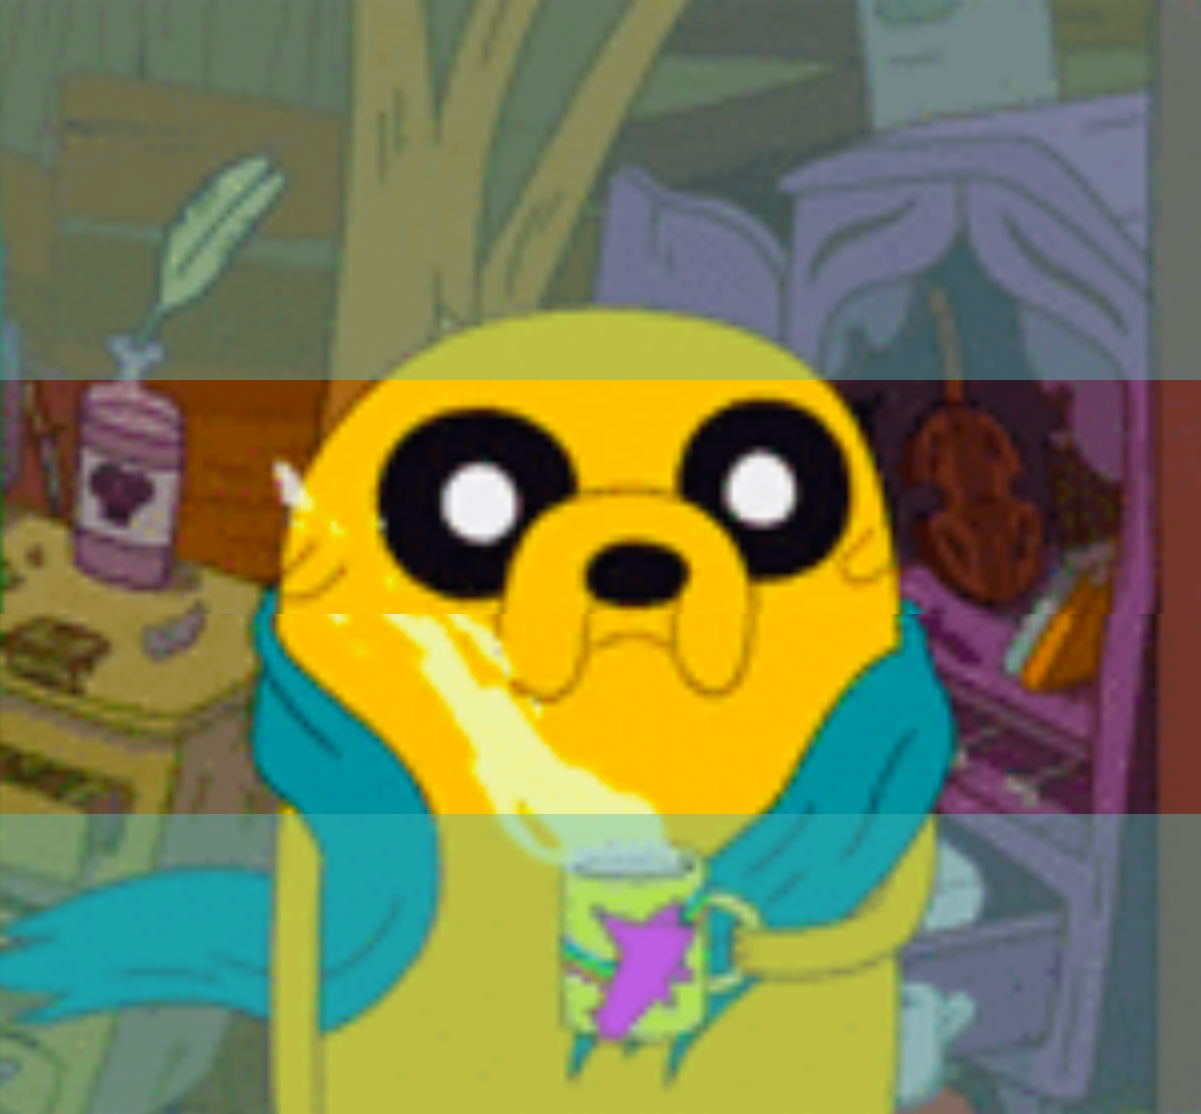
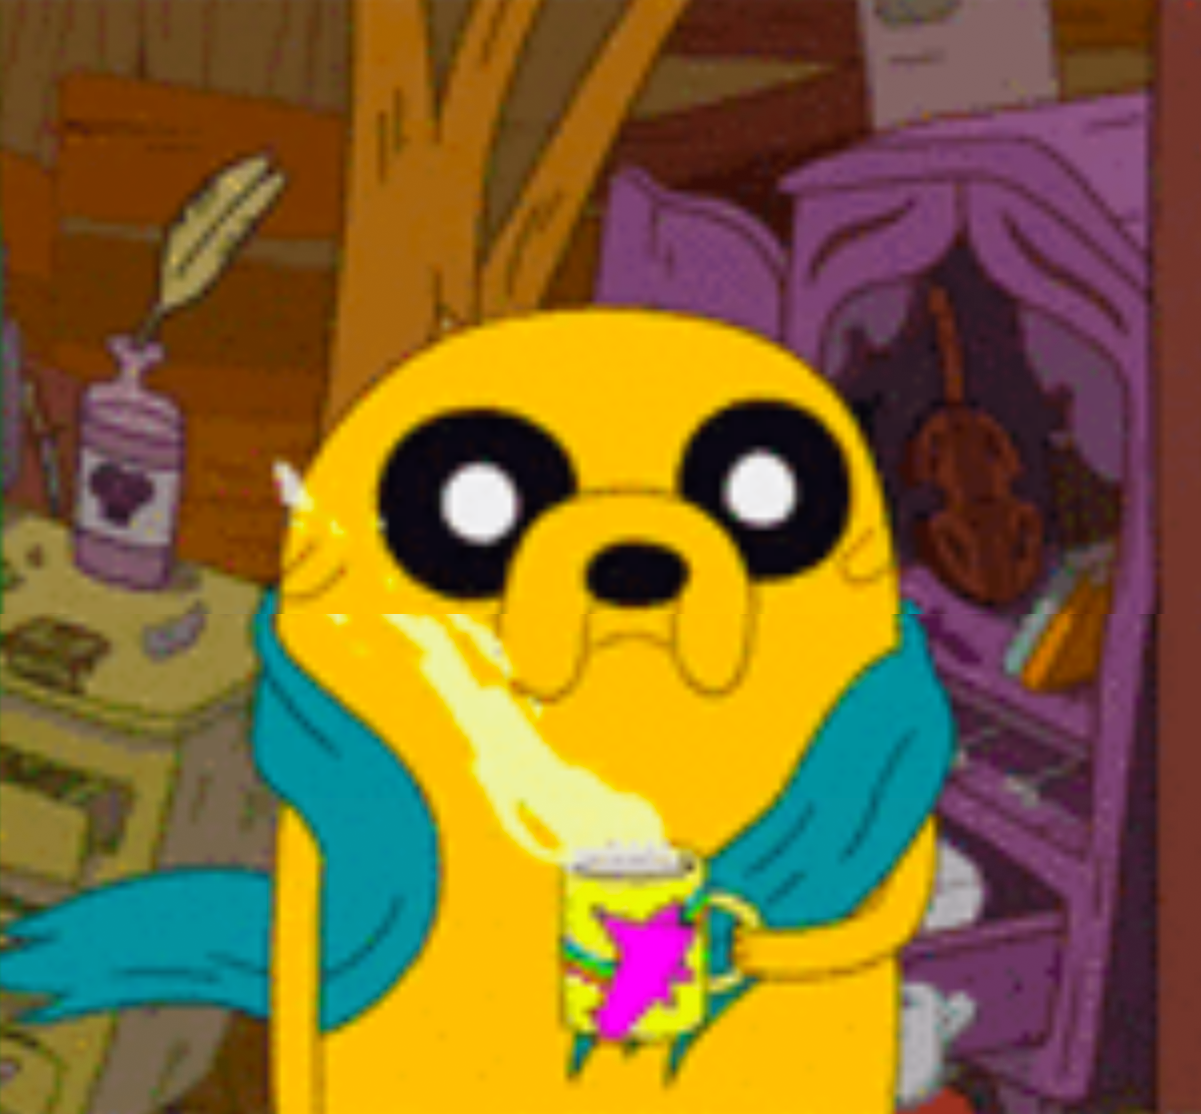
Cleaning

diff --git a/compbot.py b/compbot.py
@@ -1,19 +1,23 @@
 from __future__ import print_function
 from wand.image import Image
+import glob
 
-header_file = 'header.png'
-footer_file = 'footer.png'
-screen_file = raw_input('What screen (png) to process?: ') + '.png'
+# Get all PNGs in the current directory
+files = glob.glob('*.png')
 
-header_image = Image(filename=header_file)
-footer_image = Image(filename=footer_file)
+header_image = Image(filename='_header.png')
+footer_image = Image(filename='_footer.png')
+
+screen_file = files[2]
 screen_image = Image(filename=screen_file)
 
+# Coordinates for where we composite
 comp_header = 0
 comp_footer = screen_image.height - footer_image.height
 
+# Do the compositing of header and footer onto the screen image
 screen_image.composite(header_image, 0, comp_header)
 screen_image.composite(footer_image, 0, comp_footer)
 
 # Export appended image comp
-screen_image.save(filename='comp.png')
+screen_image.save(filename=screen_file)
